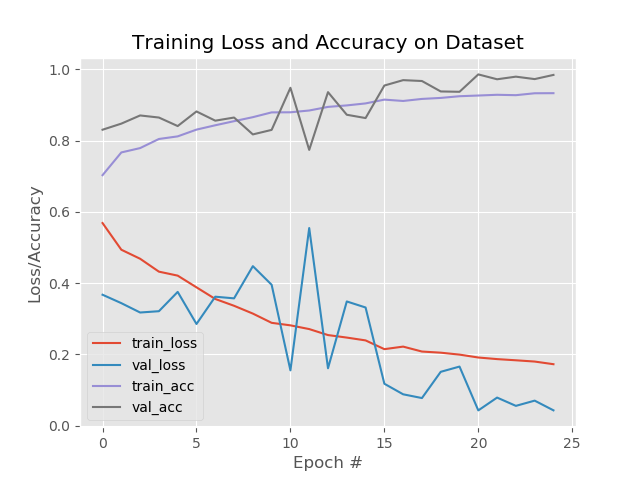
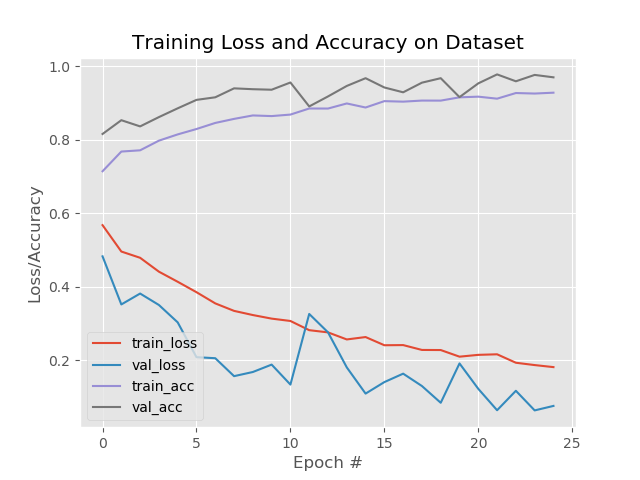
Changed Relu to leakyrelu

diff --git a/CNN/livenessnet.py b/CNN/livenessnet.py
@@ -9,7 +9,8 @@ from keras.layers.core import Dropout
 from keras.layers.core import Dense
 from keras import backend as K
 from keras.applications.resnet50 import ResNet50
-from keras.layers import LSTM,ConvLSTM2D
+from keras.layers import LSTM,ConvLSTM2D, TimeDistributed
+from keras.layers import LeakyReLU
 
 class LivenessNet:
 	@staticmethod
@@ -22,30 +23,30 @@ class LivenessNet:
 		# first CONV => RELU => CONV => RELU => POOL layer set
 		model.add(Conv2D(16, (3, 3), padding="same",
 			input_shape=inputShape))
-		model.add(Activation("relu"))
+		model.add(LeakyReLU(alpha=0.3))
 		model.add(BatchNormalization(axis=chanDim))
 		model.add(Conv2D(16, (3, 3), padding="same"))
-		model.add(Activation("relu"))
+		model.add(LeakyReLU(alpha=0.3))
 		model.add(BatchNormalization(axis=chanDim))
 		model.add(MaxPooling2D(pool_size=(2, 2)))
 		model.add(Dropout(0.25))
 
 		# second CONV => RELU => CONV => RELU => POOL layer set
 		model.add(Conv2D(32, (3, 3), padding="same")) # 32 is feature maps. Memorizing different patters
-		model.add(Activation("relu"))
+		model.add(LeakyReLU(alpha=0.3))
 		model.add(BatchNormalization(axis=chanDim))
 		model.add(Conv2D(32, (3, 3), padding="same"))
-		model.add(Activation("relu"))
+		model.add(LeakyReLU(alpha=0.3))
 		model.add(BatchNormalization(axis=chanDim))
 		model.add(MaxPooling2D(pool_size=(2, 2)))
 		model.add(Dropout(0.25))
-		
+
 		# downsample image, leave same kernel size
 		model.add(Conv2D(64, (3, 3), padding="same"))
-		model.add(Activation("relu"))
+		model.add(LeakyReLU(alpha=0.3))
 		model.add(BatchNormalization(axis=chanDim))
 		model.add(Conv2D(64, (3, 3), padding="same"))
-		model.add(Activation("relu"))
+		model.add(LeakyReLU(alpha=0.3))
 		model.add(BatchNormalization(axis=chanDim))
 		model.add(MaxPooling2D(pool_size=(2, 2)))
 		model.add(Dropout(0.25))
@@ -54,9 +55,32 @@ class LivenessNet:
 		model.add(Flatten())
 		model.add(Dense(128))
 		
-		
-
-		
-		return model
+		# import keras
+		# model = Sequential()
+		#
+		# model.add(
+		#     TimeDistributed(
+		#         Conv2D(64, (3, 3), activation='relu'),
+		#         input_shape=(10, width, height, 1)
+		#     )
+		# )
+		# model.add(TimeDistributed(MaxPooling2D((2, 2), strides=(1, 1))))
+		#
+		# model.add(TimeDistributed(Conv2D(128, (4,4), activation='relu')))
+		# model.add(TimeDistributed(MaxPooling2D((2, 2), strides=(2, 2))))
+		#
+		# model.add(TimeDistributed(Conv2D(256, (4,4), activation='relu')))
+		# model.add(TimeDistributed(MaxPooling2D((2, 2), strides=(2, 2))))
+		#
+		# # extract features and dropout
+		# model.add(TimeDistributed(Flatten()))
+		# model.add(Dropout(0.5))
+		#
+		# # input to LSTM
+		# model.add(LSTM(256, return_sequences=False, dropout=0.5))
+		#
+		# # classifier with sigmoid activation for multilabel
+		# model.add(Dense(2, activation='sigmoid'))
 		
 		# return the constructed network architecture
+		return model

diff --git a/generate_heatmap.py b/generate_heatmap.py
@@ -8,8 +8,9 @@ import imutils
 import dlib
 from imutils import face_utils
 import random
+import tensorflow as tf
 
-model = load_model('NUAA_dataset_final.h5')
+model = load_model('NUAA_dataset_final.h5' ,custom_objects={"tf": tf}) #, custom_objects={"tf": tf}
 le = pickle.loads(open('NUAA_dataset_final.pickle', "rb").read())
 def get_accuracy(img):
 	frame = cv2.resize(img, (32, 32))
@@ -44,7 +45,7 @@ def occlude_convolution_random(final_img,size_box):
 	cv2.waitKey(0)
 
 
-def occlude_convolution(final_img,size_box):
+def occlude_convolution(final_img,size_box,perc_org):
 	c = 14
 	l = []
 	for i in range (width):
@@ -55,12 +56,13 @@ def occlude_convolution(final_img,size_box):
 					cv2.imshow("org: " , img)
 					img_c = img.copy()
 					cv2.imshow("cop: " , img_c)
+					
 					occlude =  cv2.rectangle(img_c, (i, j), (i+size_box, j+size_box), (255, 255, 255), -1)
 					final_img = cv2.rectangle(final_img, (i, j), (i+size_box, j+size_box), (255, 255, 255), -1)
 					cv2.imshow("occ: " , occlude)
 					cv2.waitKey(0)
 					label, perc = get_accuracy(occlude)
-					perc =  str(int(round(perc * 100)))
+					perc = str(int(round(((perc*100) * int(perc_org))/100))) # str(int(round(perc * 100))) #
 					print("new perc acc: " , perc)
 					print("new label: " ,label)
 					print("*****************")
@@ -129,16 +131,38 @@ def occlude_region(img,region):
 	return clone
 
 
-image = 'saved_img 99.jpg'
+image = 'saved_img 77.jpg'
 
 # load img
 img = cv2.imread(image)
+# cv2.imshow("org: " , img)
+# for i in range(5):
+# 	img_c = img.copy()
+# 	occ = cv2.rectangle(img_c, (i*10, i*10), (i*10+20+(i*10), i*10+20+i*10), (0, 0, 255), -1)
+# 	cv2.imshow("occ: " , occ)
+# 	cv2.waitKey(0)
+# 	face = cv2.resize(img_c, (32, 32))
+# 	cv2.imshow("Frame2", face)
+# 	face = img_to_array(face)
+# 	face = np.expand_dims(face, axis=0)
+#
+#
+# 	preds = model.predict(face)[0]
+# 	j = np.argmax(preds)
+# 	label = le.classes_[j]
+#
+# 	print("{}: {:.4f}".format(label, preds[j]))
+#
+#
+
+
+
 img_c = img.copy()
 width, height,_ = img.shape
 
 
 label, perc = get_accuracy(img)
-perc =  str(int(round(perc * 100)))
+perc_org =  str(int(round(perc * 100)))
 print("org perc acc: " , perc)
 print("org label: " ,label)
 
@@ -146,6 +170,6 @@ size_box = 30
 
 final_img = img.copy()
 
-# occlude_convolution(final_img,size_box)
+occlude_convolution(final_img,size_box,perc_org)
 # occlude_convolution_random(final_img,size_box)
-occlude_specific_part(final_img,"nose")
+# occlude_specific_part(final_img,"nose")

diff --git a/train_liveness.py b/train_liveness.py
@@ -30,6 +30,8 @@ from keras.layers.core import Activation
 from keras.layers.core import Dropout
 from keras.layers.core import Dense
 from sklearn.metrics import confusion_matrix
+from keras.utils.vis_utils import plot_model
+from keras.layers import LeakyReLU
 
 
 #%%
@@ -215,7 +217,7 @@ np.savetxt('feature_extraction/labels_no_both_eyes.csv', trainY, delimiter=',')
 np.savetxt('feature_extraction/features_no_both_eyes.txt', model.predict(trainX, batch_size=BS), delimiter=',')
 np.savetxt('feature_extraction/labels_no_both_eyes.txt', trainY, delimiter=',')
 
-model.add(Activation("relu"))
+model.add(LeakyReLU(alpha=0.3))
 model.add(BatchNormalization())
 model.add(Dropout(0.5))
 
@@ -230,10 +232,13 @@ model.add(LSTM(128))
 model.add(Dense(len(le.classes_)))
 model.add(Activation("softmax"))
 
-model.compile(loss="binary_crossentropy", optimizer=opt,
+model.compile(loss="categorical_crossentropy", optimizer=opt,
 			  metrics=["accuracy"])
 
 model.summary()
+import os
+os.environ["PATH"] += os.pathsep + 'C:/Program Files (x86)/Graphviz2.38/bin/'
+plot_model(model, to_file='model_plot.png', show_shapes=True, show_layer_names=True)
 # model.save_weights('my_weights.h5')
 
 #%%
@@ -244,6 +249,8 @@ print("[INFO] training network for {} epochs...".format(EPOCHS))
 H = model.fit_generator(aug.flow(trainX, trainY, batch_size=BS),
 						validation_data=(testX, testY), steps_per_epoch=len(trainX) // BS,
 						epochs=EPOCHS)
+
+
 
 # evaluate the network
 print("[INFO] evaluating network...")
